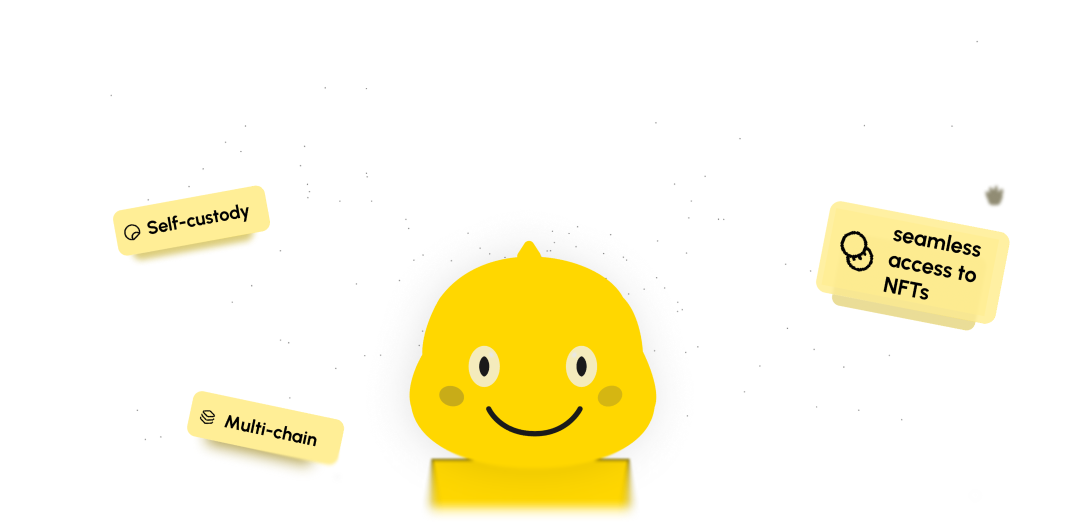
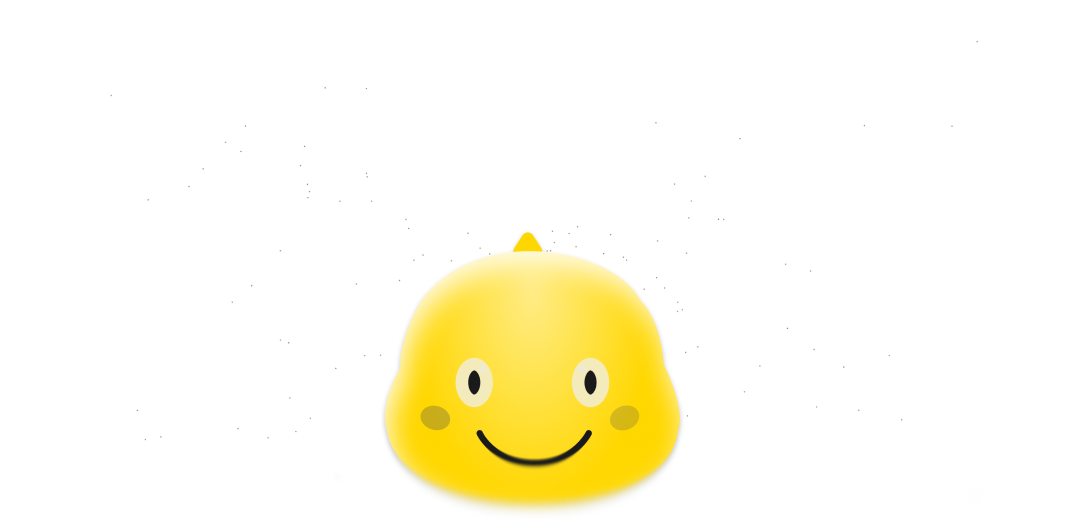
changing the decane head image

diff --git a/src/components/shared/Banner.tsx b/src/components/shared/Banner.tsx
@@ -10,14 +10,12 @@ import Link from 'next/link'
 const Banner = () => {
     return (
         <div className='flex flex-col items-center justify-center'>
-            <h1 className='font-russo-one text-black text-6xl lg:text-8xl max-w-[20rem] lg:max-w-[30rem] text-center'>
+            <h1 className='font-russo-one text-black text-6xl lg:text-8xl text-center lg:mb-10 mb-5 md:mb-0'>
                 Own <span className='text-[#D5B300] font-rouge-script text-[116.1px]'>your
                 </span> Flow</h1>
 
             <div className='relative'>
                 <Image src={Decane} alt="penguin" className='-mt-20 lg:-mt-[15rem]' />
-                <Image src={RightHand} alt="left-hand" className='absolute -bottom-4 left-[36%]  max-[770px]:w-[90px]' />
-                <Image src={LeftHand} alt="right-hand" className='absolute -bottom-4 right-[36%]  max-[770px]:w-[90px]' />
             </div>
 
 

diff --git a/src/app/page.tsx b/src/app/page.tsx
@@ -14,7 +14,7 @@ export default function Home() {
   return (
     <>
       <Header />
-      <div className='mt-10 lg:mt-40'>
+      <div className='mt-5 lg:mt-5'>
         <Banner />
         <WalletIntro />
         <WalletUi />
